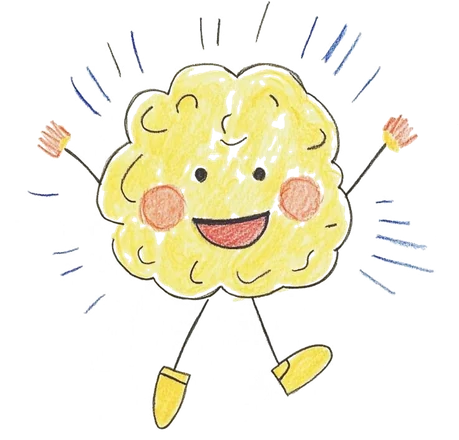
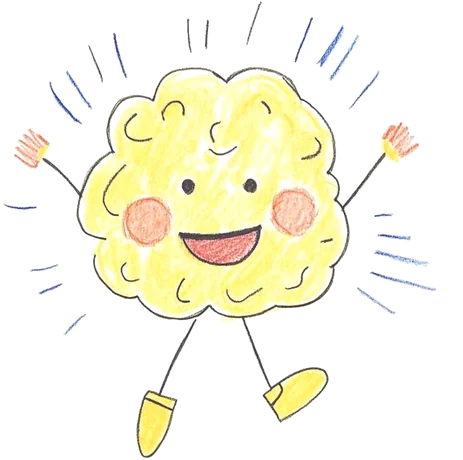
Alleen de vaste Midjourney-breintjes op de site
De knop Nog een breintje laat de tien vaste breintjes zien, met hun naam.
Het Weerbericht toont het breintje met het bijpassende gevoel. De site
tekent zelf geen breintjes meer; breintje.js is er alleen nog voor de kleurplaten.

Claude-Session: https://claude.ai/code/session_01NMoi1TSxKS4myfTqNY9dbx

diff --git a/js/site.js b/js/site.js
@@ -42,9 +42,14 @@
     return h;
   }
 
+  // Alle breintjes op de site zijn de vaste krijtbreintjes uit de huisstijl (map beeld/).
+  function plaatje(naam, alt) {
+    return el("img", { class: "breintje", src: "beeld/" + naam + ".webp", alt: alt || "", loading: "lazy" });
+  }
+
   function leeg(tekst) {
     var beeld = el("span", { class: "leeg-beeld" });
-    beeld.innerHTML = Breintje.teken(4, { sier: true });
+    beeld.appendChild(plaatje("breintje-verlegen"));
     return el("div", { class: "leeg" }, [beeld, el("p", { tekst: tekst })]);
   }
 
@@ -69,18 +74,31 @@
 
   /* ---------- Vaste breintjes (logo en zo) ---------- */
 
-  [].forEach.call(document.querySelectorAll("[data-breintje]"), function (plek) {
-    plek.innerHTML = Breintje.teken(Number(plek.getAttribute("data-breintje")), { sier: true });
-  });
+  // De tien vaste breintjes, met hun naam en waar ze van houden.
+  var BREINTJES = [
+    { naam: "Billie", beeld: "hoofdbreintje", houdtVan: "knuffels" },
+    { naam: "Lisa", beeld: "breintje-bril", houdtVan: "heel veel vragen" },
+    { naam: "Nicky", beeld: "breintje-lang", houdtVan: "torens bouwen" },
+    { naam: "Gido", beeld: "breintje-sportief", houdtVan: "springen" },
+    { naam: "Juul", beeld: "breintje-nerveus", houdtVan: "alles op een rij zetten" },
+    { naam: "Hetty", beeld: "breintje-koptelefoon", houdtVan: "stilte" },
+    { naam: "Jelte", beeld: "breintje-rolstoel", houdtVan: "rondjes draaien" },
+    { naam: "Suus", beeld: "breintje-vol-energie", houdtVan: "hard lachen" },
+    { naam: "Loesje", beeld: "breintje-verlegen", houdtVan: "verstoppen" },
+    { naam: "Lari", beeld: "breintje-slaperig", houdtVan: "zachte dekens" }
+  ];
 
   /* ---------- Het breintje op het podium ---------- */
 
   var podium = document.getElementById("podium-breintje");
   var podiumTekst = document.getElementById("podium-tekst");
 
-  function toonBreintje(zaadje, metPlop) {
-    var b = Breintje.beschrijf(zaadje);
-    podium.innerHTML = Breintje.teken(zaadje);
+  var nuBreintje = 0;
+  function toonBreintje(nummer, metPlop) {
+    nuBreintje = nummer % BREINTJES.length;
+    var b = BREINTJES[nuBreintje];
+    podium.textContent = "";
+    podium.appendChild(plaatje(b.beeld, b.naam + ", een breintje"));
     podiumTekst.textContent = "";
     podiumTekst.appendChild(document.createTextNode("Dit is "));
     podiumTekst.appendChild(el("strong", { tekst: b.naam }));
@@ -93,7 +111,7 @@
   }
 
   function nieuwBreintje() {
-    toonBreintje(Math.floor(Math.random() * 4294967295), true);
+    toonBreintje(nuBreintje + 1, true);
   }
 
   podium.addEventListener("animationend", function () { podium.classList.remove("nieuw"); });
@@ -265,7 +283,7 @@
     var beeld = el("div", { class: "film-beeld" });
     var knop = el("button", { class: "film-knop", type: "button", "aria-label": "Speel het filmpje " + film.titel });
     if (film.plaatje) knop.appendChild(el("img", { src: film.plaatje, alt: "", loading: "lazy" }));
-    else knop.innerHTML = Breintje.teken(getalVan(film.titel), { sier: true });
+    else knop.appendChild(plaatje(BREINTJES[getalVan(film.titel) % BREINTJES.length].beeld));
     knop.appendChild(el("span", { class: "speel-merk" }, icoon("speel")));
     beeld.appendChild(knop);
 
@@ -460,8 +478,12 @@
       keuzes.appendChild(knop);
 
       var id = "weertekst-" + i;
+      // In de kaart staat het breintje dat zich zo voelt.
+      var gevoelBreintje = { zon: "breintje-blij", wolk: "breintje-rustig", regen: "breintje-verdrietig", storm: "breintje-overprikkeld", onweer: "breintje-boos", vuurwerk: "breintje-vol-energie" }[w.soort];
+      var groot = gevoelBreintje ? plaatje(gevoelBreintje) : weerBeeld(w.soort);
+      if (gevoelBreintje) groot.setAttribute("class", "weer-beeld weer-breintje");
       var kaart = el("article", { class: "weer-kaart is-" + w.kleur, hidden: "" }, [
-        weerBeeld(w.soort),
+        groot,
         el("div", { class: "weer-tekst" }, [
           el("div", { class: "weer-woorden", id: id }, [
             el("h3", { tekst: w.kop }),

diff --git a/css/stijl.css b/css/stijl.css
@@ -93,7 +93,10 @@ a { color: inherit; }
 img, svg { max-width: 100%; }
 button, input, textarea { font: inherit; color: inherit; }
 svg.breintje { display: block; width: 100%; height: auto; color: var(--navy); }
-.vast-breintje { display: block; width: 100%; height: auto; }
+.vast-breintje, img.breintje { display: block; width: 100%; height: auto; }
+.film-knop img.breintje { position: absolute; inset: 4%; width: 92%; height: 92%; object-fit: contain; }
+.weer-beeld.weer-breintje, .weer-kaart > .weer-beeld.weer-breintje { filter: none; object-fit: contain; width: 11rem; height: 11rem; }
+:root[data-rustig="aan"] .weer-beeld.weer-breintje { filter: saturate(.45); }
 .wie-breintje img, .idee-beeld img { display: block; width: 100%; height: auto; }
 
 .soort { font-family: var(--font-soort); font-weight: 700; letter-spacing: .04em; color: var(--hoofd); font-size: 2rem; line-height: 1; }
@@ -277,8 +280,8 @@ h1 { font-size: clamp(2.3rem, 6vw, 4rem); }
   display: grid; place-items: center;
 }
 .podium-breintje { width: 100%; cursor: pointer; }
-.podium-breintje svg { transform-origin: 50% 92%; animation: wiebel 5s ease-in-out infinite; }
-.podium-breintje.nieuw svg { animation: plop .28s ease-out; }
+.podium-breintje .breintje { transform-origin: 50% 92%; animation: wiebel 5s ease-in-out infinite; }
+.podium-breintje.nieuw .breintje { animation: plop .28s ease-out; }
 .podium-tekst { font-size: 1.25rem; line-height: 1.35; min-height: 2.7em; max-width: 20ch; margin-top: .4rem; }
 .podium-tekst strong { font-weight: 700; color: var(--paars-diep); }
 

diff --git a/index.html b/index.html
@@ -9,7 +9,7 @@
 <link rel="icon" href="beeld/icoon-64.png" type="image/png">
 <link rel="apple-touch-icon" href="beeld/icoon-180.png">
 <link rel="preload" href="fonts/fredoka.woff2" as="font" type="font/woff2" crossorigin>
-<link rel="stylesheet" href="css/stijl.css?v=4">
+<link rel="stylesheet" href="css/stijl.css?v=5">
 <script>
   // Onthoud de knop Rustig al vóór de pagina getekend wordt.
   try {
@@ -124,7 +124,7 @@
           <div class="podium-vlak"><div class="podium-breintje" id="podium-breintje"></div></div>
           <p class="podium-tekst" id="podium-tekst" aria-live="polite"></p>
           <button class="knop" id="nog-een" type="button">Nog een breintje</button>
-          <p class="klein">Geen twee breintjes zijn hetzelfde.</p>
+          <p class="klein">Elk breintje is anders.</p>
         </div>
       </div>
 
@@ -437,9 +437,8 @@
 
 <noscript><p class="binnen">Zet JavaScript aan om de liedjes, verhaaltjes, filmpjes en tekeningen te zien.</p></noscript>
 
-<script src="js/breintje.js?v=4"></script>
-<script src="inhoud.js?v=4"></script>
-<script src="js/site.js?v=4"></script>
-<script src="js/dit-ben-ik.js?v=4"></script>
+<script src="inhoud.js?v=5"></script>
+<script src="js/site.js?v=5"></script>
+<script src="js/dit-ben-ik.js?v=5"></script>
 </body>
 </html>

diff --git a/README.md b/README.md
@@ -49,7 +49,8 @@ De site werkt op elke webruimte: zet alle bestanden erop en klaar. Met GitHub Pa
 - `index.html`: de pagina, de tabbladen en de vaste teksten
 - `inhoud.js`: alles wat op de tabbladen komt te staan
 - `css/stijl.css`: de opmaak in huisstijl 3 (krijt), met een rustige stand
-- `js/breintje.js`: tekent de breintjes. Elk getal geeft een ander breintje.
+- `beeld/`: de vaste breintjes uit de huisstijl (Midjourney, krijtstijl) en het logo. De namen van de tien breintjes staan bovenaan in `js/site.js`.
+- `js/breintje.js`: tekent alleen nog de kleurplaten (via `tools/maak-plaatjes.js`); de site zelf gebruikt het niet meer.
 - `js/site.js`: zet de inhoud op de pagina en laat de tabbladen en knoppen werken
 - `js/dit-ben-ik.js`: de Dit ben ik-kaart (invullen, A4-kaart tekenen, bewaren als PDF of plaatje)
 - `js/vendor/jspdf.umd.min.js`: maakt de PDF; wordt pas geladen als iemand op "Bewaar als PDF" drukt
